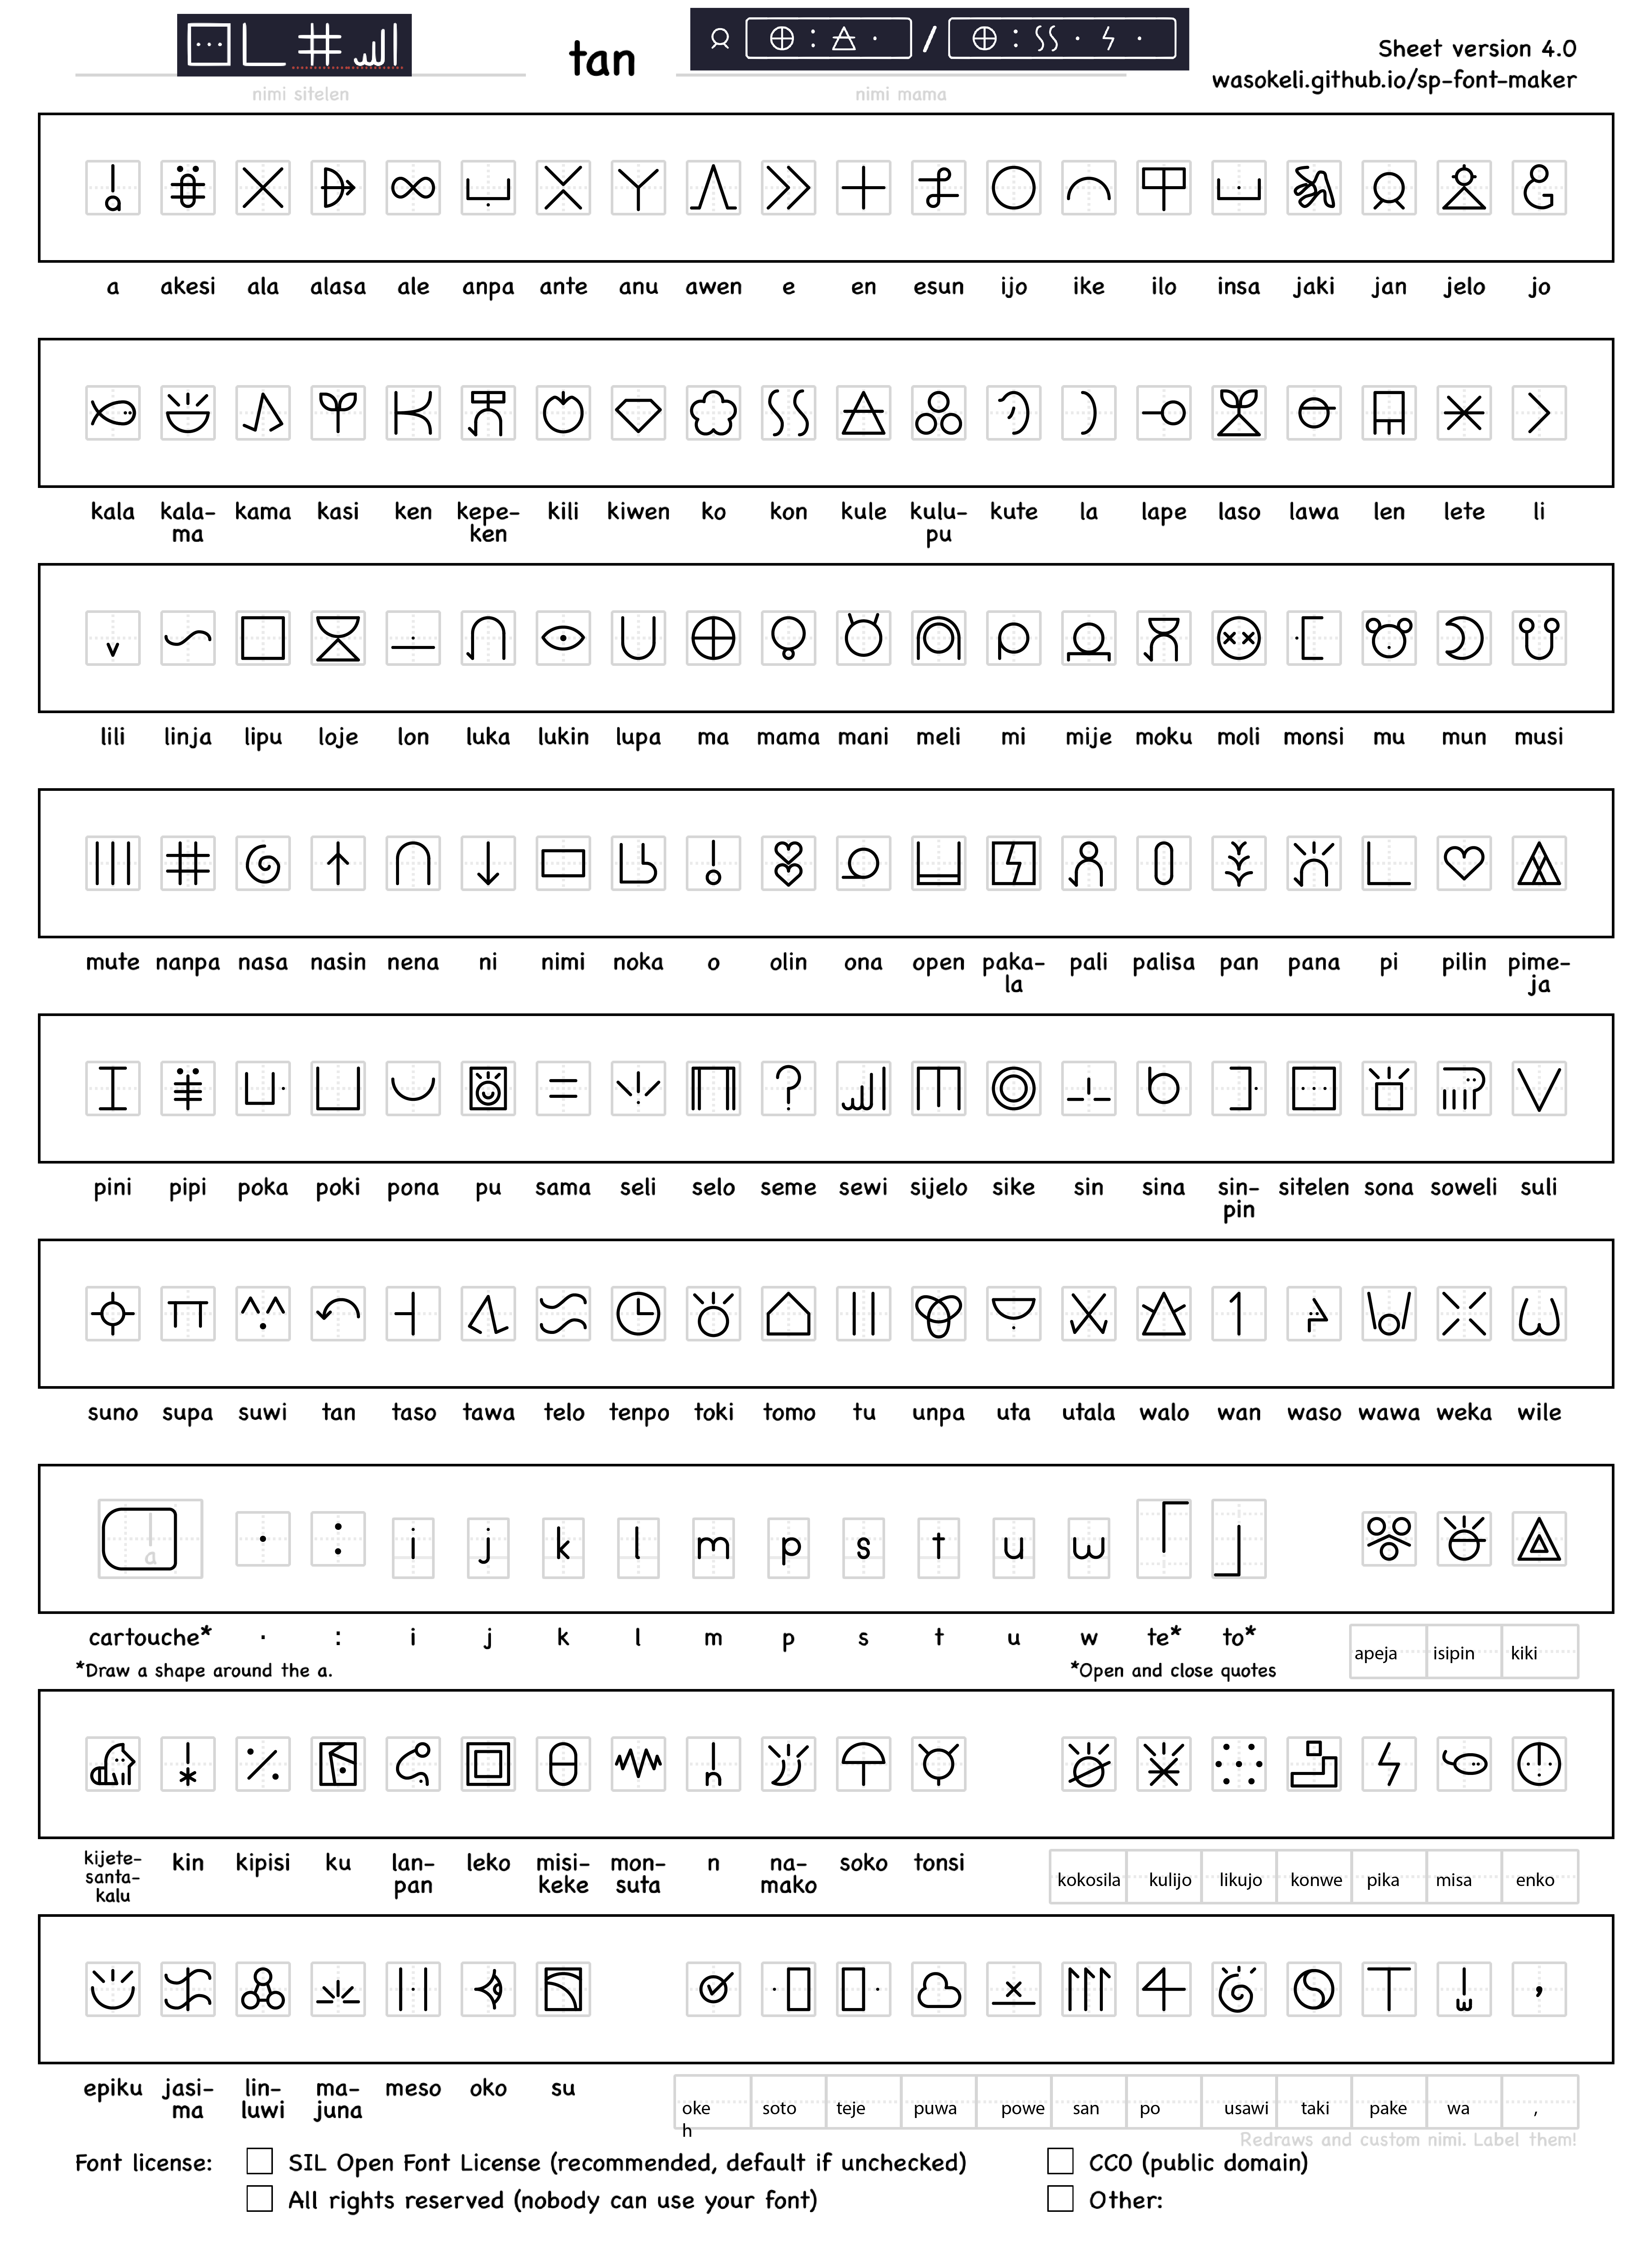
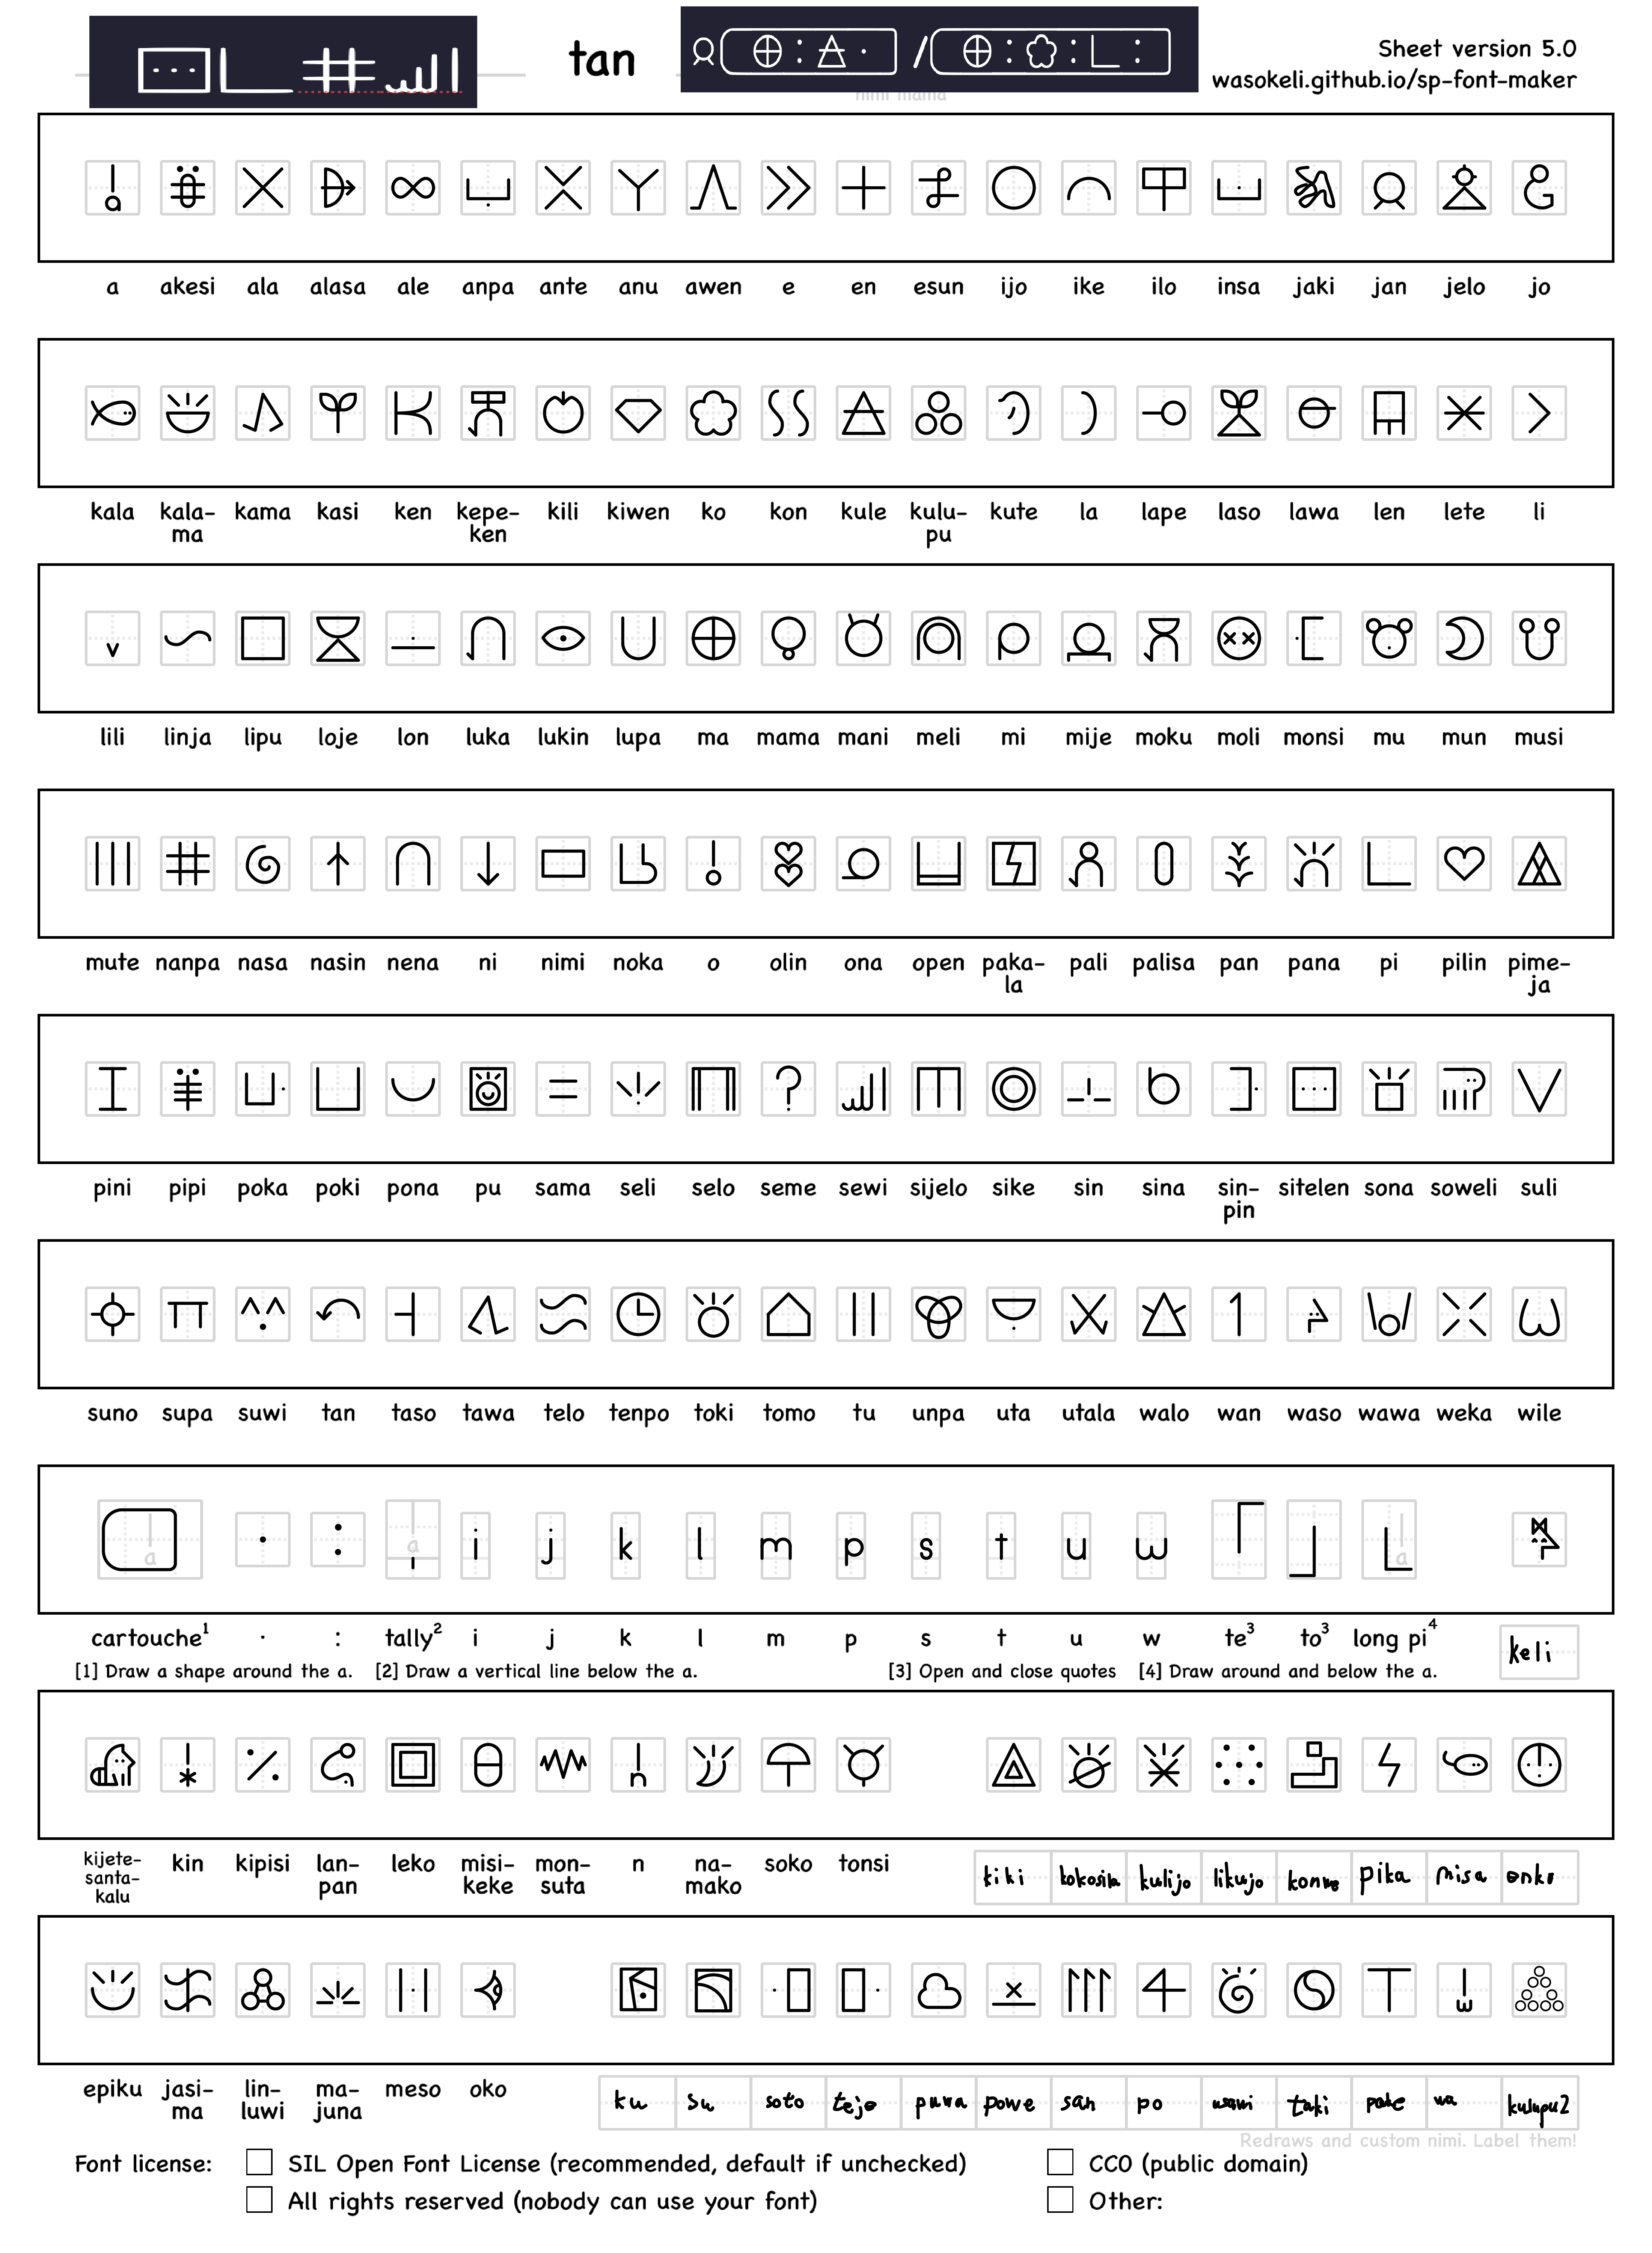
Update "sitelen pi nanpa sewi" by "jan Maku/Makopi"

diff --git a/sp-font-maker/sitelen-pi-nanpa-sewi.html b/sp-font-maker/sitelen-pi-nanpa-sewi.html
@@ -200,6 +200,7 @@
         <div class="word">]<br><span class="hidden label">]</span></div>
         <div class="word">.<br><span class="hidden label">.</span></div>
         <div class="word">:<br><span class="hidden label">:</span></div>
+        <div class="word">|,=<br><span class="hidden label">,</span></div>
         <div class="word">i<br><span class="hidden label">i</span></div>
         <div class="word">j<br><span class="hidden label">j</span></div>
         <div class="word">k<br><span class="hidden label">k</span></div>
@@ -212,14 +213,12 @@
         <div class="word">w<br><span class="hidden label">w</span></div>
         <div class="word">te<br><span class="hidden label">te</span></div>
         <div class="word">to<br><span class="hidden label">to</span></div>
+        <div class="word">pi()<br><span class="hidden label">pi()</span></div>
         <div class="word">|<br><span class="hidden label"> </span></div>
-        <div class="word">apeja<br><span class="hidden label">apeja</span></div>
-        <div class="word">isipin<br><span class="hidden label">isipin</span></div>
-        <div class="word">kiki<br><span class="hidden label">kiki</span></div>
+        <div class="word">Keli<br><span class="hidden label">Keli</span></div>
         <div class="word">kijetesantakalu<br><span class="hidden label">kijete&shy;santa&shy;kalu</span></div>
         <div class="word">kin<br><span class="hidden label">kin</span></div>
         <div class="word">kipisi<br><span class="hidden label">kipisi</span></div>
-        <div class="word">ku<br><span class="hidden label">ku</span></div>
         <div class="word">lanpan<br><span class="hidden label">lan&shy;pan</span></div>
         <div class="word">leko<br><span class="hidden label">leko</span></div>
         <div class="word">misikeke<br><span class="hidden label">misi&shy;keke</span></div>
@@ -229,6 +228,7 @@
         <div class="word">soko<br><span class="hidden label">soko</span></div>
         <div class="word">tonsi<br><span class="hidden label">tonsi</span></div>
         <div class="word">|<br><span class="hidden label"> </span></div>
+        <div class="word">kiki<br><span class="hidden label">kiki</span></div>
         <div class="word">kokosila<br><span class="hidden label">koko&shy;sila</span></div>
         <div class="word">kulijo<br><span class="hidden label">kulijo</span></div>
         <div class="word">likujo<br><span class="hidden label">likujo</span></div>
@@ -242,9 +242,9 @@
         <div class="word">majuna<br><span class="hidden label">ma&shy;juna</span></div>
         <div class="word">meso<br><span class="hidden label">meso</span></div>
         <div class="word">oko<br><span class="hidden label">oko</span></div>
-        <div class="word">su<br><span class="hidden label">su</span></div>
         <div class="word">|<br><span class="hidden label"> </span></div>
-        <div class="word">oke<br><span class="hidden label">oke</span></div>
+        <div class="word">ku<br><span class="hidden label">ku</span></div>
+        <div class="word">su<br><span class="hidden label">su</span></div>
         <div class="word">soto<br><span class="hidden label">soto</span></div>
         <div class="word">teje<br><span class="hidden label">teje</span></div>
         <div class="word">puwa<br><span class="hidden label">puwa</span></div>
@@ -255,7 +255,7 @@
         <div class="word">taki<br><span class="hidden label">taki</span></div>
         <div class="word">pake<br><span class="hidden label">pake</span></div>
         <div class="word">wa<br><span class="hidden label">wa</span></div>
-        <div class="word">comma<br><span class="hidden label">comma</span></div>
+        <div class="word">kulupu2<br><span class="hidden label">kulupu2</span></div>
 </div>
 </span>
 